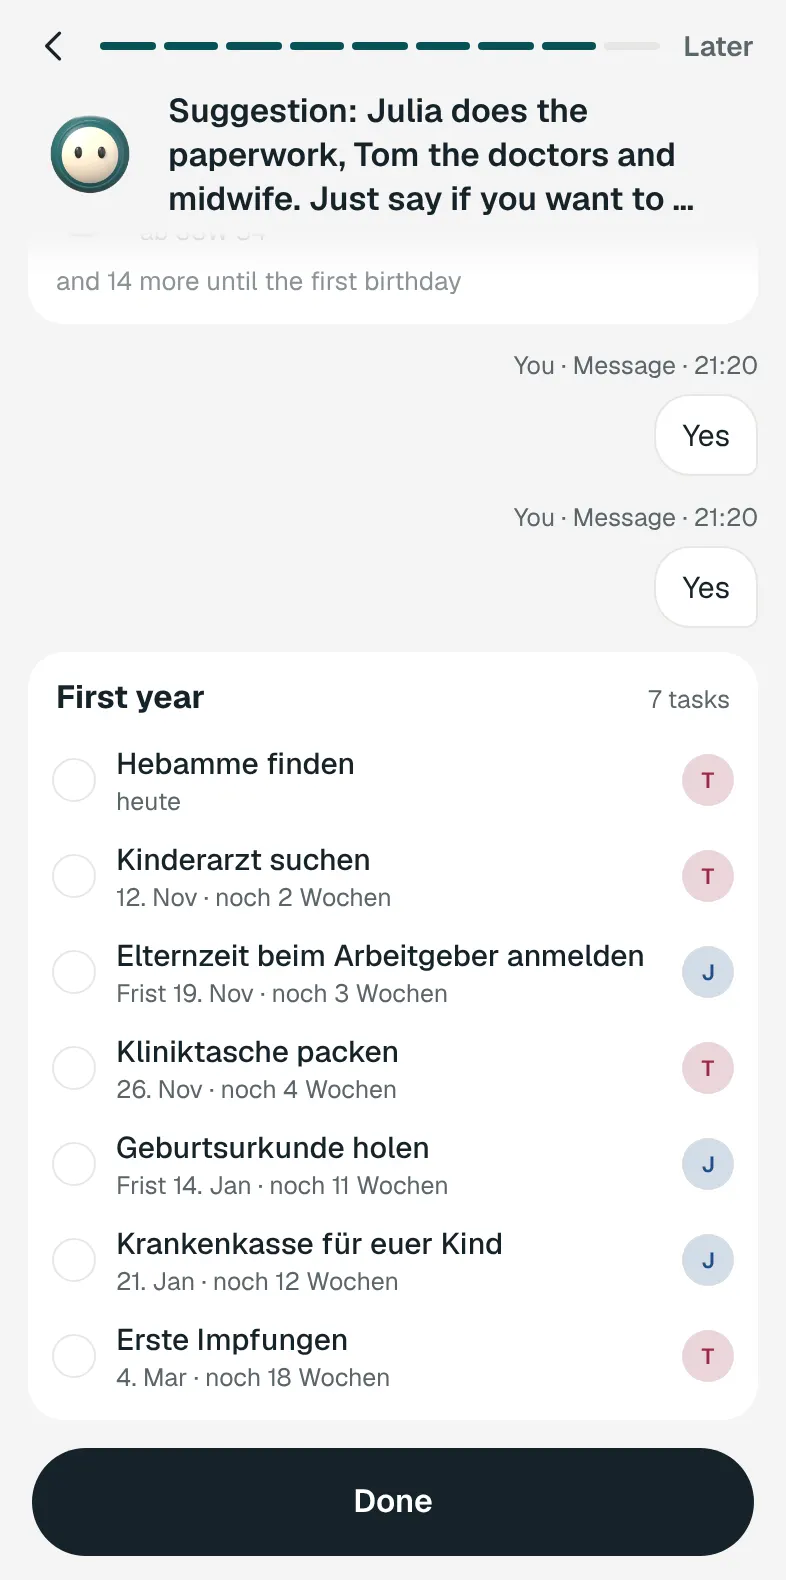
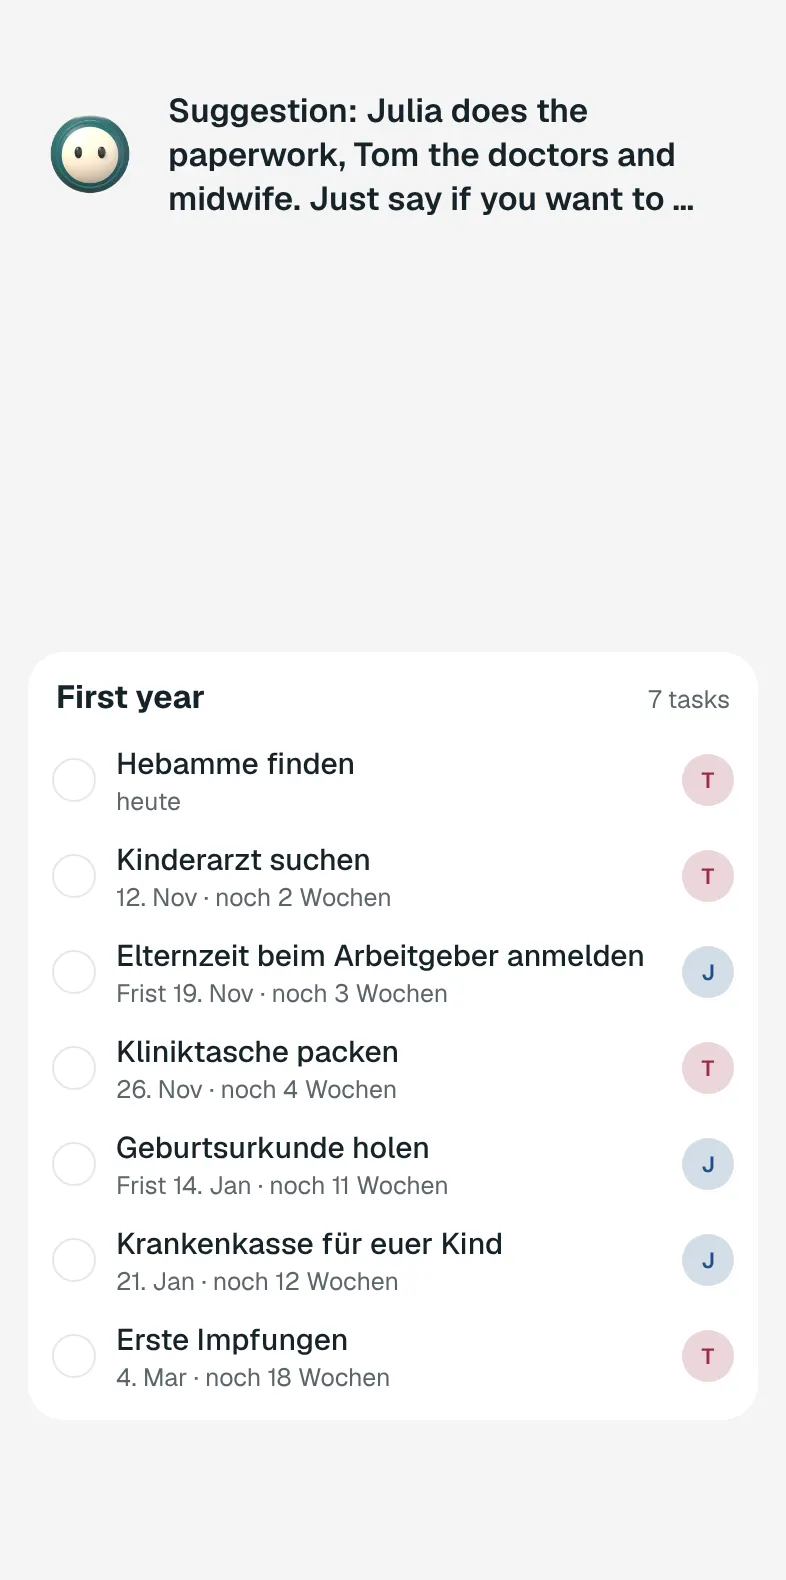
Landing: Jahr mit Legende, Er-denkt-mit-Screen ruhiger
Claude-Session: https://claude.ai/code/session_017DTGJGUYwRXRGxkyGNMDvJ

diff --git a/landing/sync-baby.js b/landing/sync-baby.js
@@ -32,7 +32,17 @@ const MIME = { '.html': 'text/html', '.js': 'text/javascript', '.css': 'text/css
     try {
       await shot('baby1');
       await yes(); await p.waitForTimeout(3500); await shot('baby2');
-      await yes(); await p.waitForTimeout(4500); await shot('baby');
+      await yes(); await p.waitForTimeout(4500);
+      // Ruhiger für die Landing Page (Julian 05.11.): Fortschrittsleiste, eigene „Ja“-Nachrichten und die abgeschnittene erste Karte ausblenden.
+      await p.evaluate(() => {
+        const leaf = (re) => [...document.querySelectorAll('div')].filter((d) => re.test((d.textContent || '').trim()) && ![...d.children].some((c) => re.test((c.textContent || '').trim())));
+        const box = (el, n) => { for (let i = 0; i < n && el.parentElement; i++) el = el.parentElement; return el; };
+        for (const d of leaf(/^(Du|You) · /)) { const b = d.parentElement; if (b) b.style.display = 'none'; }
+        for (const d of leaf(/(und|and) \d+ (weitere|more)/)) { let el = d; while (el.parentElement && el.getBoundingClientRect().height < 200) el = el.parentElement; el.style.display = 'none'; }
+        for (const d of leaf(/^(Fertig|Done)$/)) { let el = d; while (el.parentElement && el.getBoundingClientRect().height < 40) el = el.parentElement; el.style.visibility = 'hidden'; }
+        const sp = leaf(/^(Später|Later)$/)[0]; if (sp) { let el = sp; while (el.parentElement && el.parentElement.getBoundingClientRect().width < 380) el = el.parentElement; el.style.visibility = 'hidden'; }
+      });
+      await p.waitForTimeout(600); await shot('baby');
       console.log('ok', v);
     } catch (e) { console.log('FEHLT', v, e.message.split('\n')[0]); }
     await p.close();

diff --git a/landing/landing.src.html b/landing/landing.src.html
@@ -251,7 +251,7 @@ h1 { font-weight: 600; font-size: clamp(40px, 6.4vw, 78px); line-height: 1.02; l
       <div class="scr shot stacked" data-shot="termin"><div class="status"><span>8:50</span><span>●●●</span></div><img alt=""></div>
       <div class="scr shot stacked" data-shot="mail"><div class="status"><span>8:50</span><span>●●●</span></div><img alt=""></div>
       <div class="scr shot stacked" data-shot="brief"><div class="status"><span>8:50</span><span>●●●</span></div><img alt=""></div>
-      <div class="scr shot stacked" data-shot="jahr"><div class="status"><span>8:50</span><span>●●●</span></div><img alt=""></div>
+      <div class="scr shot stacked" data-shot="jahrlegende"><div class="status"><span>8:50</span><span>●●●</span></div><img alt=""></div>
       <div class="scr shot stacked" data-shot="aufteilen"><div class="status"><span>8:50</span><span>●●●</span></div><img alt=""></div>
       <div class="scr shot stacked" data-shot="kontext"><div class="status"><span>8:50</span><span>●●●</span></div><img alt=""></div>
       <div class="scr shot stacked" data-shot="wieder"><div class="status"><span>8:50</span><span>●●●</span></div><img alt=""></div>

diff --git a/landing/sync-screens.js b/landing/sync-screens.js
@@ -156,6 +156,8 @@ const SCREENS = [
   // Urlaub: zwei Urlaube der Beispielfamilie, damit Jahr und Urlaubskonto etwas zeigen.
   ['urlaub', async ({ p, setting, t, l }) => { await vac(p, l); await setting(t.urlaub); }],
   ['jahr', async ({ p, tab, view, t, l }) => { await vac(p, l); await tab(t.cal); await view(t.year); }],
+  // Jahr mit Legende (Julian 05.11.): nach unten bis Legende und „Was das Jahr noch bringt“.
+  ['jahrlegende', async ({ p, tab, view, t, l }) => { await vac(p, l); await tab(t.cal); await view(t.year); await p.mouse.move(200, 400); await p.mouse.wheel(0, 520); await p.waitForTimeout(800); }],
   // Farben: Farbthema der Familie (Personenfarben), Seite /design per In-App Navigation.
   ['farben', async ({ p }) => { await p.evaluate(() => { history.pushState({}, '', '/design'); dispatchEvent(new PopStateEvent('popstate')); }); await p.waitForTimeout(1800); }],
   ['kalender', async ({ setting, t }) => { await setting(t.gcal); }],
